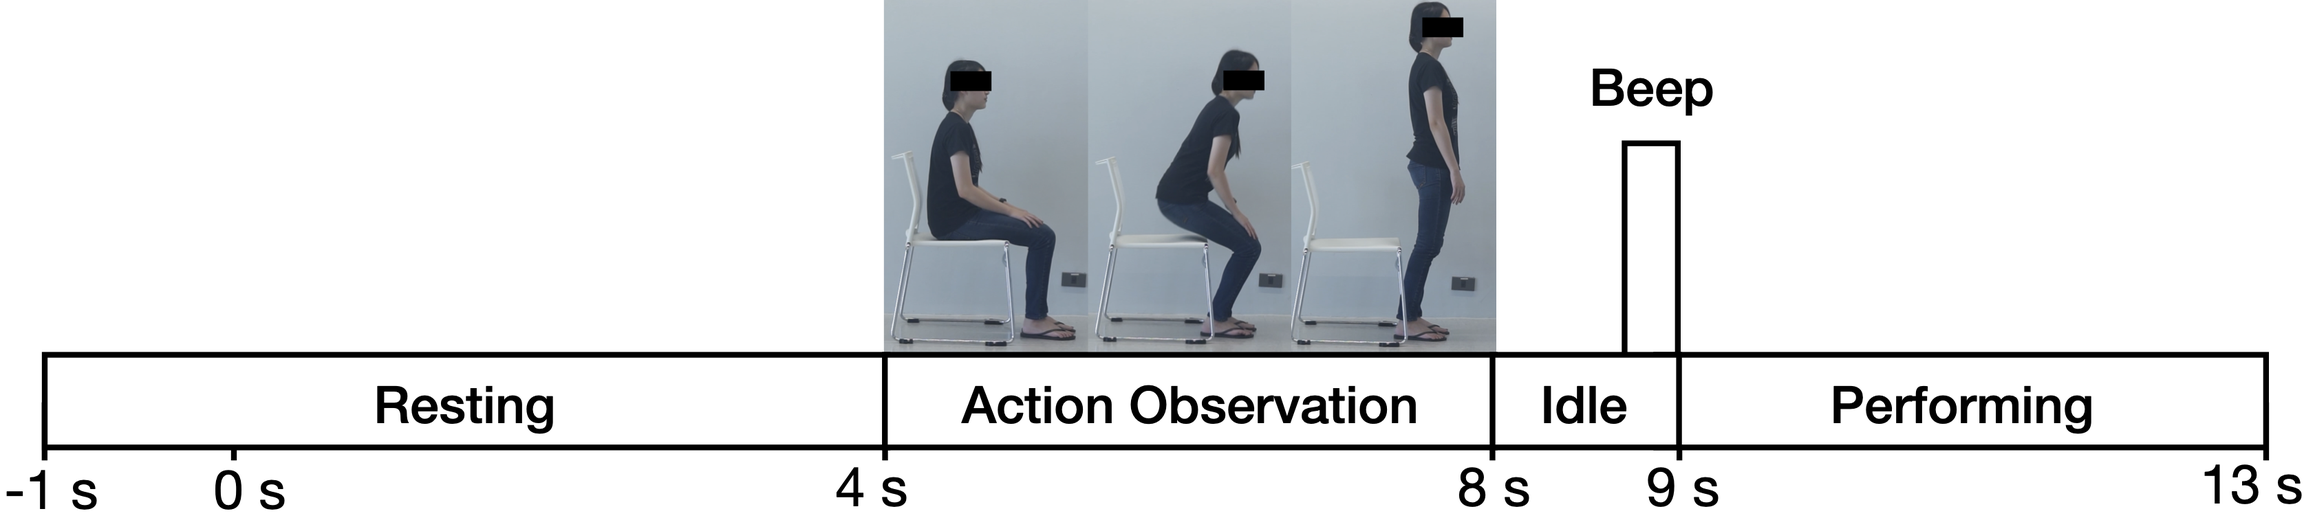
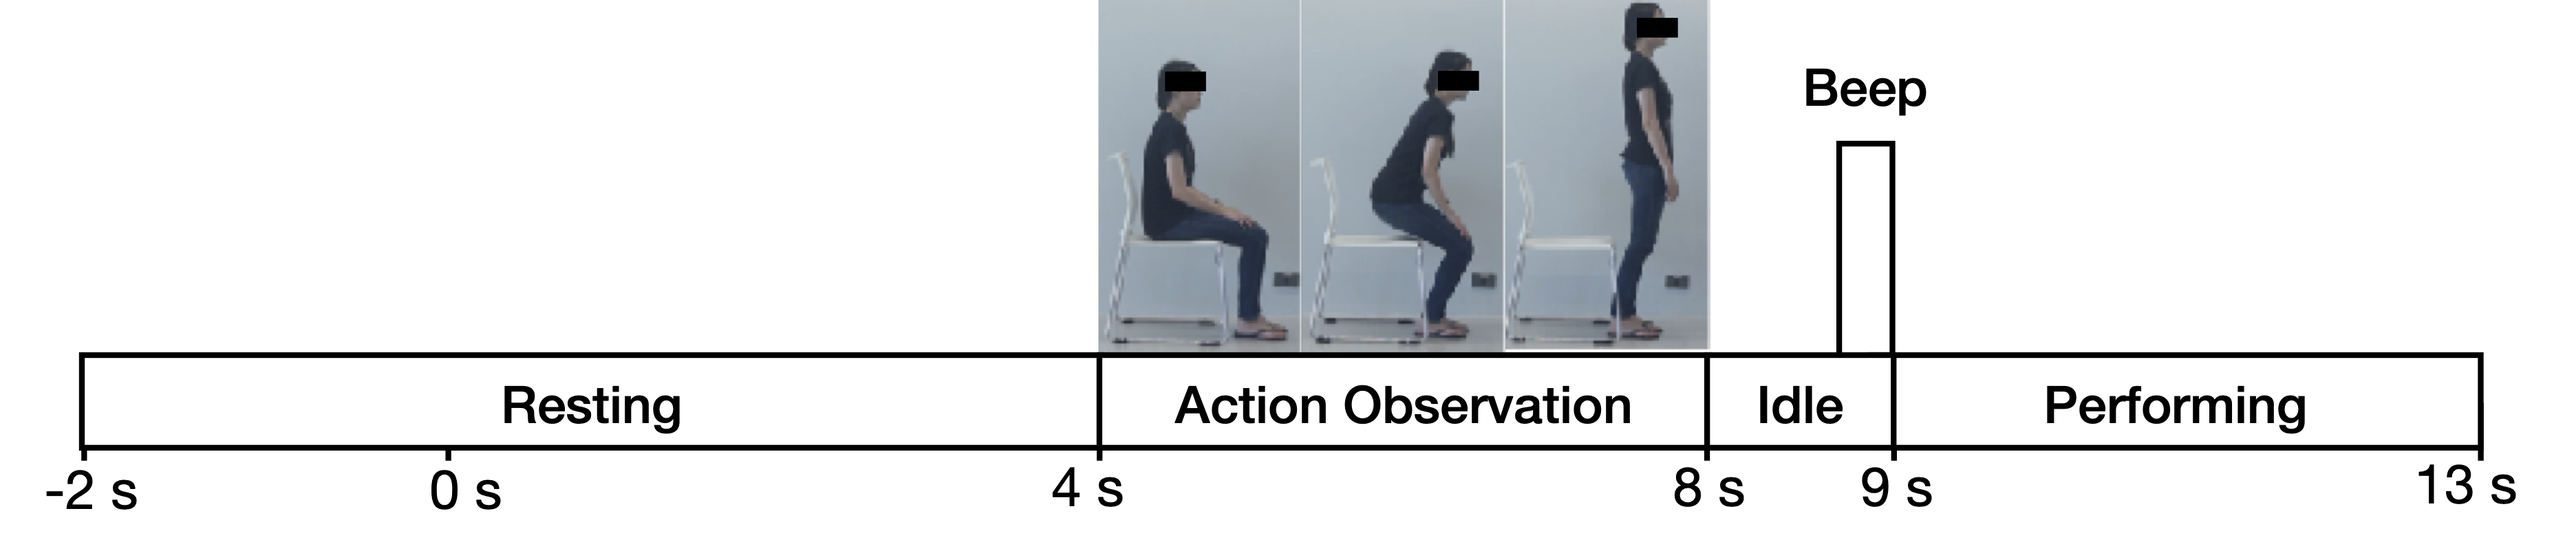
edit readme

Changed region(s): [[0.0, 0.0, 1.0, 0.9625]]

diff --git a/README.md b/README.md
@@ -1,7 +1,7 @@
 # Decoding EEG Rhythms During Action Observation, Motor Imagery and Execution for Standing and Sitting
 
 ## Abstract 
- **Event-related desynchronization and synchronization (ERD/S) and movement-related cortical potential (MRCP) play an important role in brain-computer interfaces (BCI) for lower limb rehabilitation, particularly in standing and sitting. However, little is known about the differences in the cortical activation between standing and sitting, especially how the brain's intention modulates the pre-movement sensorimotor rhythm as they do for switching movements. In this study, we aim to investigate the decoding of continuous EEG rhythms during action observation (AO), motor imagery (MI), and motor execution (ME) for standing and sitting. We developed a behavioral task in which participants were instructed to perform both AO and MI/ME in regard to the actions of sit-to-stand and stand-to-sit. Our results demonstrated that the ERD was prominent during AO, whereas ERS was typical during MI at the alpha band across the sensorimotor area. A combination of the filter bank common spatial pattern (FBCSP) and support vector machine (SVM) for classification was used for both offline and classifier testing analyses. The offline analysis indicated the classification of AO and MI providing the highest mean accuracy at 82.73±2.38 % in stand-to-sit transition. By applying the classifier testing analysis, we demonstrated the higher performance of decoding neural intentions from the MI paradigm in comparison to the ME paradigm. These observations led us to the promising aspect of using our developed tasks based on the integration of both AO and MI to build future exoskeleton-based rehabilitation systems.**
+ **Event-related desynchronization and synchronization (ERD/S) and movement-related cortical potential (MRCP) play an important role in brain-computer interfaces (BCI) for lower limb rehabilitation, particularly in standing and sitting. However, little is known about the differences in the cortical activation between standing and sitting, especially how the brain's intention modulates the pre-movement sensorimotor rhythm as they do for switching movements. In this study, we aim to investigate the decoding of continuous EEG rhythms during action observation (AO), motor imagery (MI), and motor execution (ME) for standing and sitting. We developed a behavioral task in which participants were instructed to perform both AO and MI/ME in regard to the actions of sit-to-stand and stand-to-sit. Our results demonstrated that the ERD was prominent during AO, whereas ERS was typical during MI at the alpha band across the sensorimotor area. A combination of the filter bank common spatial pattern (FBCSP) and support vector machine (SVM) for classification was used for both offline and classifier testing analyses. The offline analysis indicated the classification of AO and MI providing the highest mean accuracy at 82.73±2.54 % in stand-to-sit transition. By applying the classifier testing analysis, we demonstrated the higher performance of decoding neural intentions from the MI paradigm in comparison to the ME paradigm. These observations led us to the promising aspect of using our developed tasks based on the integration of both AO and MI to build future exoskeleton-based rehabilitation systems.**
  
 ## Data Description
 
@@ -12,7 +12,7 @@
 
 ## Experimental protocol
 
-To investigate the feasibility of decoding the MI and MRCP signals during the intended movement executions with continuous EEG recordings, the entire experimental procedure composed of two sessions: MI and ME. Each session consisted of 3 runs (5 trials each), incorporating a total of 30 trials. The protocol began with a sitting posture, followed by 5 repeated trials of sit-to-stand and stand-to-sit tasks alternatively. Figure 1 displays the sequence of four states in each trial: R, AO, idle, and task performing states (MI or ME). During the R state, a black screen was displayed on the monitor for 5 seconds (s). The participants were instructed to remain relaxed and motionless. To avoid the ambiguity of the instructions, a video stimulus showing the sit-to-stand or stand-to-sit video task lasted for 4 to 5 s was presented to guide the participants in the AO state. The participants were instructed to perform the given task following an audio cue (beep) within 4 s. In the ME, the participants were to complete a succession of self-paced voluntary movement executions. Whereas in the MI, the participants were to commence motion imagining immediately after the audio cue.
+To investigate the feasibility of decoding the MI and MRCP signals during the intended movement executions with continuous EEG recordings, the entire experimental procedure composed of two sessions: MI and ME. Each session consisted of 3 runs (5 trials each), incorporating a total of 30 trials. The protocol began with a sitting posture, followed by 5 repeated trials of sit-to-stand and stand-to-sit tasks alternatively. Figure 1 displays the sequence of four states in each trial: R, AO, idle, and task performing states (MI or ME). During the R state, a black screen was displayed on the monitor for 6 seconds (s). The participants were instructed to remain relaxed and motionless. To avoid the ambiguity of the instructions, a video stimulus showing the sit-to-stand or stand-to-sit video task lasted for 4 to 5 s was presented to guide the participants in the AO state. The participants were instructed to perform the given task following an audio cue (beep) within 4 s. In the ME, the participants were to complete a succession of self-paced voluntary movement executions. Whereas in the MI, the participants were to commence motion imagining immediately after the audio cue.
 
 ![EEG and EOG setup](fig/EEG-electrodes.001.png)
  <p align="center"> 
